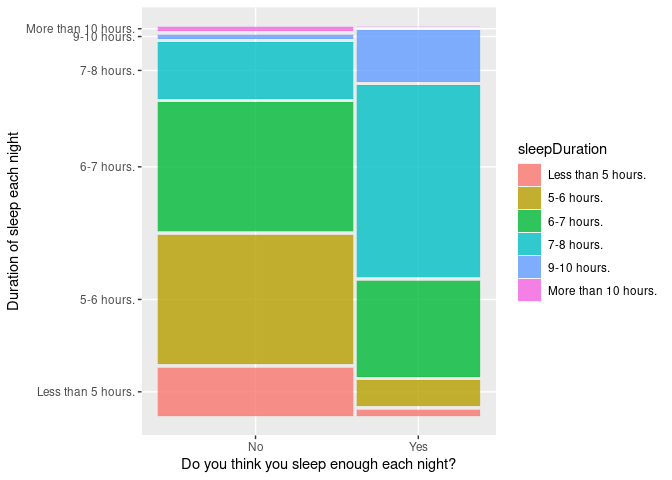
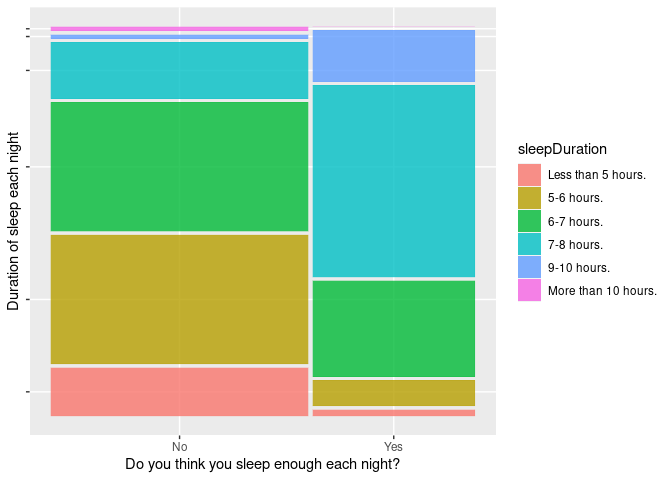
maybe add a scatter for funsies and move on to shiny app

diff --git a/418FR.md b/418FR.md
@@ -2843,7 +2843,13 @@ rest_habits %>%
 
 -   Box plots. I really liked this visualization. This is comparing the
     mean GPAs of the different major categories. I liked to mess with
-    different options here -
+    different options here - mainly stat\_summary and theme. There are
+    so many options with both of these so I mostly just googled examples
+    of how they were used in order to make what I wanted. With
+    stat\_summary I created a point for the mean gpa in each category. I
+    used theme in most plots. If the names were longer I had to angle
+    them so they didn’t overlap. I also removed the legends in some
+    since it seemed redundant.
 
 ``` r
 rest_habits %>% 
@@ -2852,7 +2858,7 @@ rest_habits %>%
   ggplot(aes(x=category, y=gpa, fill=category)) + 
   geom_boxplot() +
   stat_summary(fun=mean, geom="point", shape=20, size=4, color="grey", fill="grey") +
-  theme(axis.text.x = element_text(angle = 45, hjust = 1))
+  theme(axis.text.x = element_text(angle = 45, hjust = 1), legend.position = "none")
 ```
 
 ![](418FR_files/figure-gfm/unnamed-chunk-2-1.png)<!-- -->
@@ -2868,17 +2874,34 @@ previously gone beyond scatterplots, histograms, and boxplots.
     wasn’t something I was aware of previously. It’s like a plot version
     of a contingency table. You can have multiple variabels being
     compared as well (not just 2). I also used labs; here I can set
-    titles, axis, and legend labels.
+    title, axis, and legend labels. I used theme to remove the
+    observation names since they are shown/color-coded with the legend.
 
 ``` r
 rest_habits %>% 
   filter(!is.na(sleepDuration)) %>% 
   ggplot() +
   geom_mosaic(aes(x=product(sleepDuration, sleepEnough), fill=sleepDuration)) +
-  labs(y="Duration of sleep each night", x="Do you think you sleep enough each night?")
+  labs(y="Duration of sleep each night", x="Do you think you sleep enough each night?") +
+  theme(axis.text.y = element_blank())
 ```
 
 ![](418FR_files/figure-gfm/mosaic-1.png)<!-- -->
+
+-   some bar plots comparing multiple things. A mosaic plot was a little
+    confusung with so many observation so I liked the look of the bar
+    plot more. The position=dodge allowed there to be multiple bars for
+    each comparison (rather than having one bar with different fills).
+
+``` r
+rest_habits %>% 
+  filter(!is.na(sleepDuration)) %>% 
+  filter(!is.na(academics)) %>% 
+  ggplot(aes(x = academics)) + 
+  geom_bar(aes(fill = sleepDuration), position = "dodge")
+```
+
+![](418FR_files/figure-gfm/unnamed-chunk-3-1.png)<!-- -->
 
 (talk about shinyapp)
 
